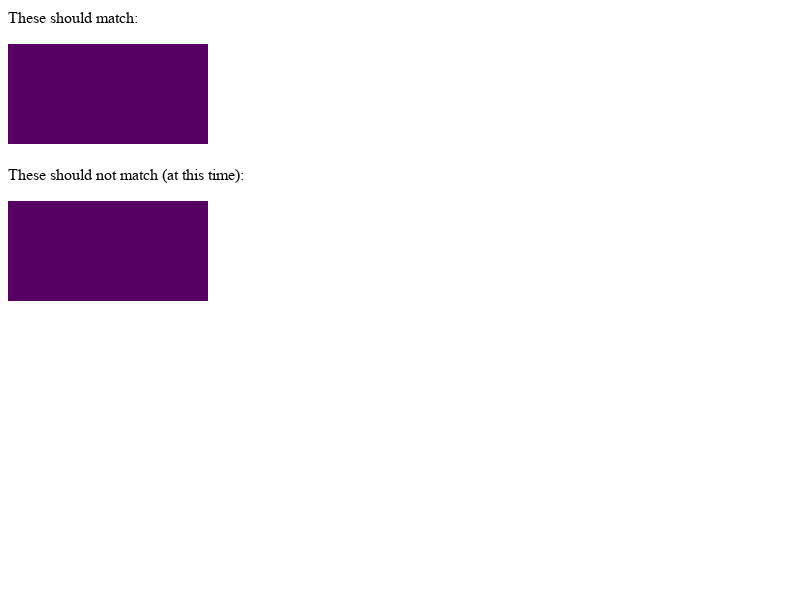
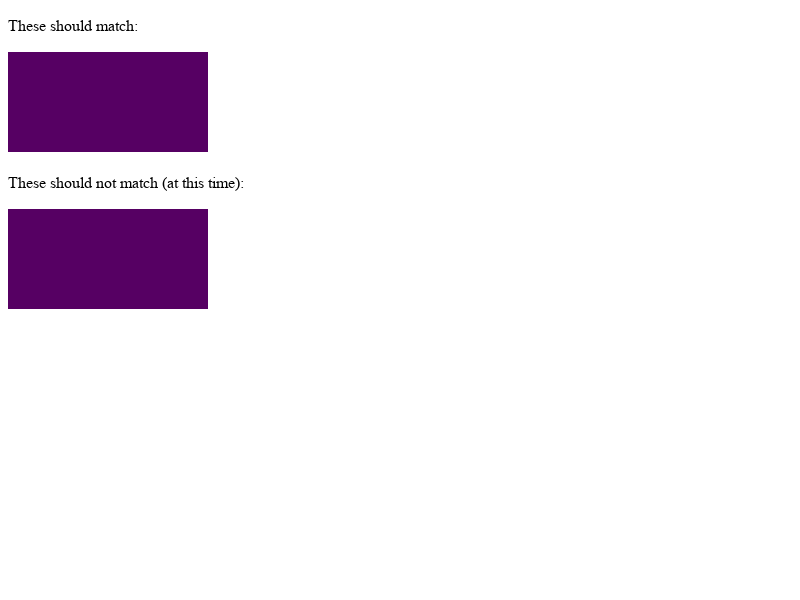
Change float/color-correction/file-url tests to standard mode
Following CL:993112, these 4 tests are also affected by the
line-height quirks bug.
  fast/block/float/float-in-float-hit-testing.html
  fast/block/float/float-in-float-painting.html
  fast/css/color-correction-on-backgrounds.html
  http/tests/local/file-url-sent-as-referer.html

2 of them require rebaseline, because of the layout change in
other parts.

Bug: 828457
Commit-Queue: Koji Ishii <kojii@chromium.org>
Cr-Commit-Position: refs/heads/master@{#548004}

Changed region(s): [[0.0, 0.24, 0.3125, 0.36], [0.0, 0.0, 0.2812, 0.09], [0.0, 0.48, 0.25, 0.54]]

diff --git a/.upstream-WebKit/LayoutTests/fast/block/float/float-in-float-painting.html b/.upstream-WebKit/LayoutTests/fast/block/float/float-in-float-painting.html
@@ -1,3 +1,4 @@
+<!DOCTYPE html>
 <div>This test checks for regressions against <a
 href="rdar://problem/4279765">Radar 4279765: REGRESSION: "More..."
 links on flickr groups pages have hover issues (flickr.com)</a>, or

diff --git a/.upstream-WebKit/LayoutTests/fast/block/float/float-in-float-hit-testing.html b/.upstream-WebKit/LayoutTests/fast/block/float/float-in-float-hit-testing.html
@@ -1,3 +1,4 @@
+<!DOCTYPE html>
 <script>
 if (window.testRunner)
     testRunner.waitUntilDone();

diff --git a/.upstream-WebKit/LayoutTests/http/tests/local/file-url-sent-as-referer.html b/.upstream-WebKit/LayoutTests/http/tests/local/file-url-sent-as-referer.html
@@ -1,3 +1,4 @@
+<!DOCTYPE html>
 <html>
 <head>
     <script>

diff --git a/.upstream-WebKit/LayoutTests/fast/css/color-correction-on-backgrounds.html b/.upstream-WebKit/LayoutTests/fast/css/color-correction-on-backgrounds.html
@@ -1,3 +1,4 @@
+<!DOCTYPE html>
 <html>
 <body>
 
